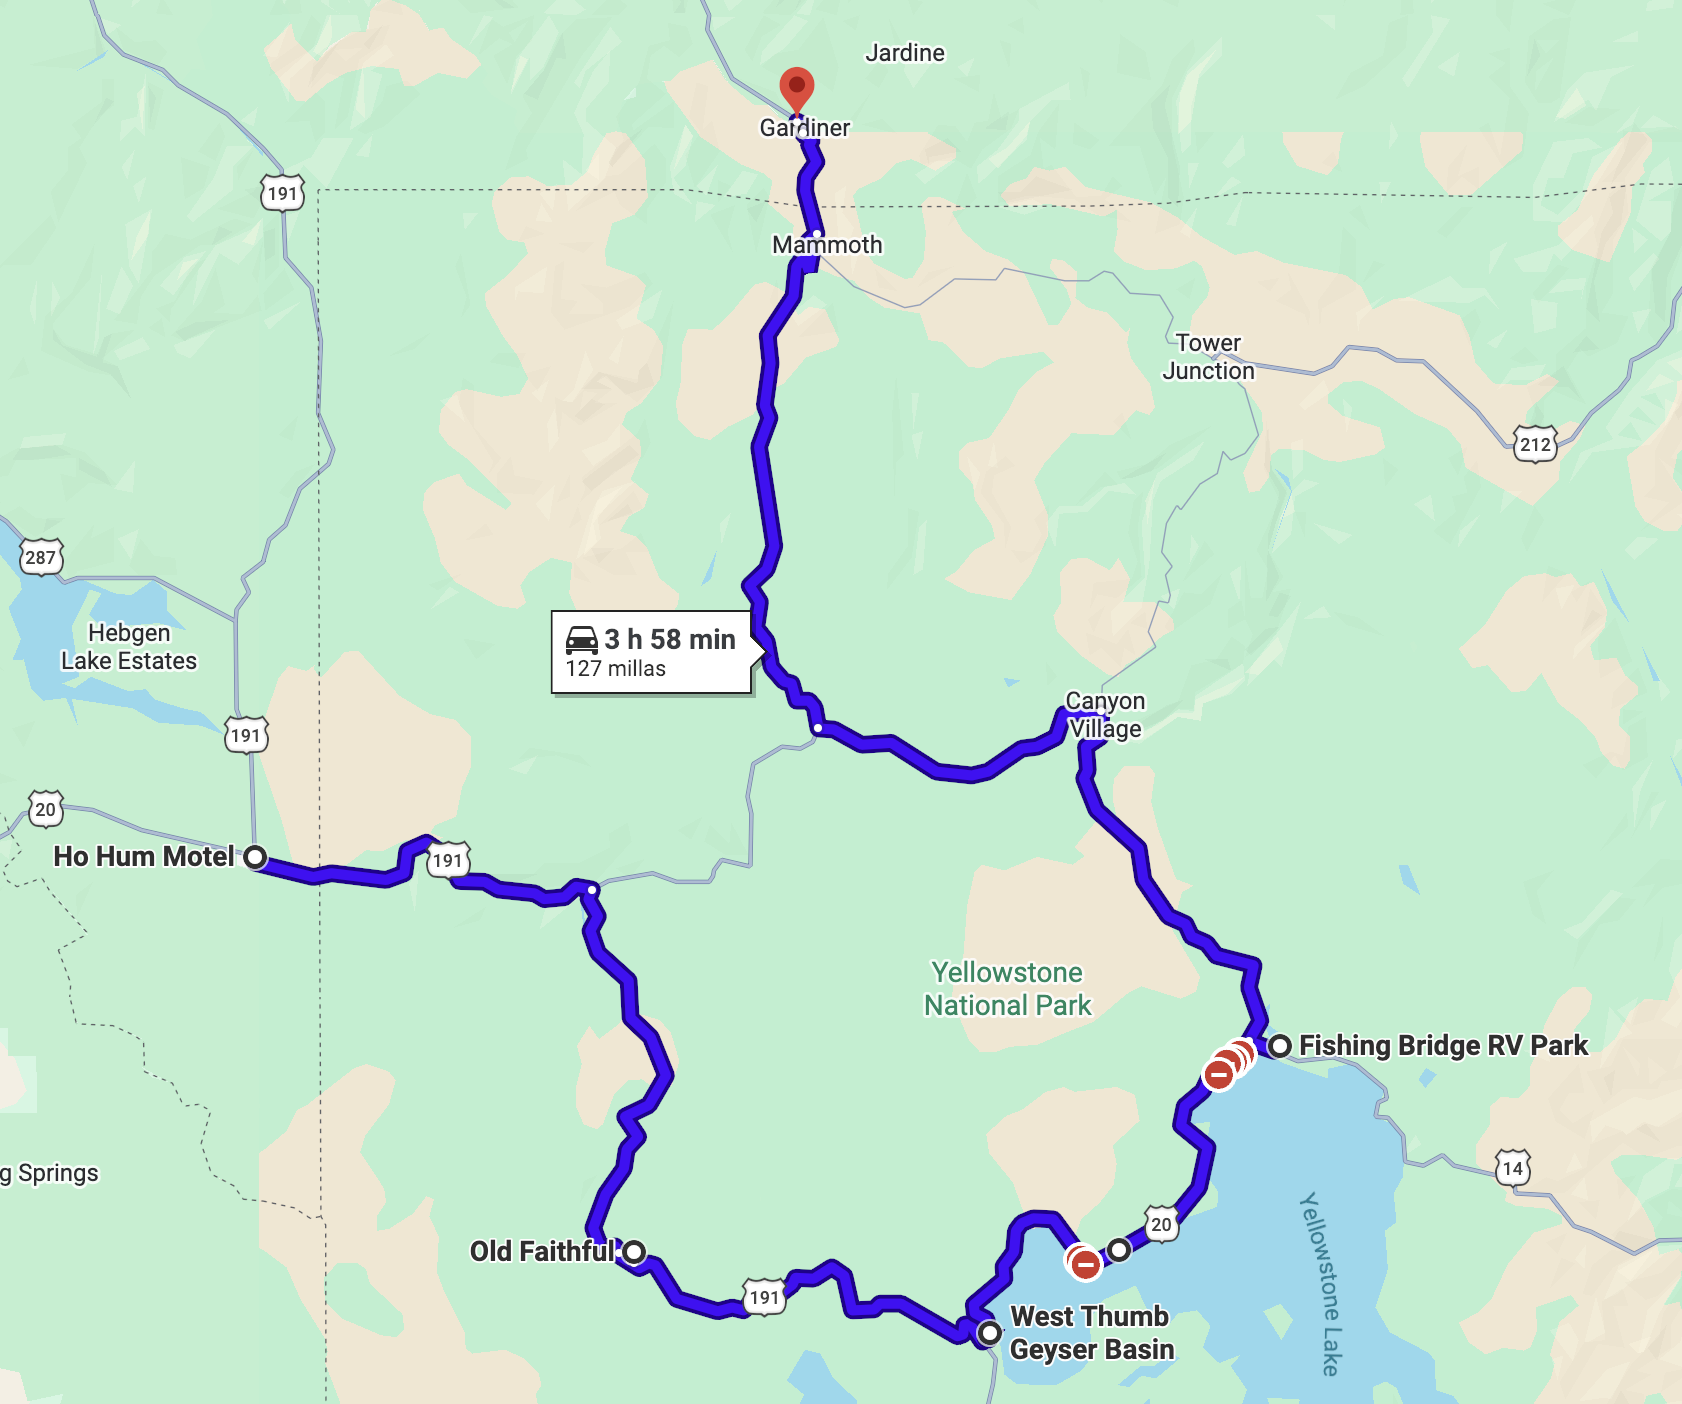
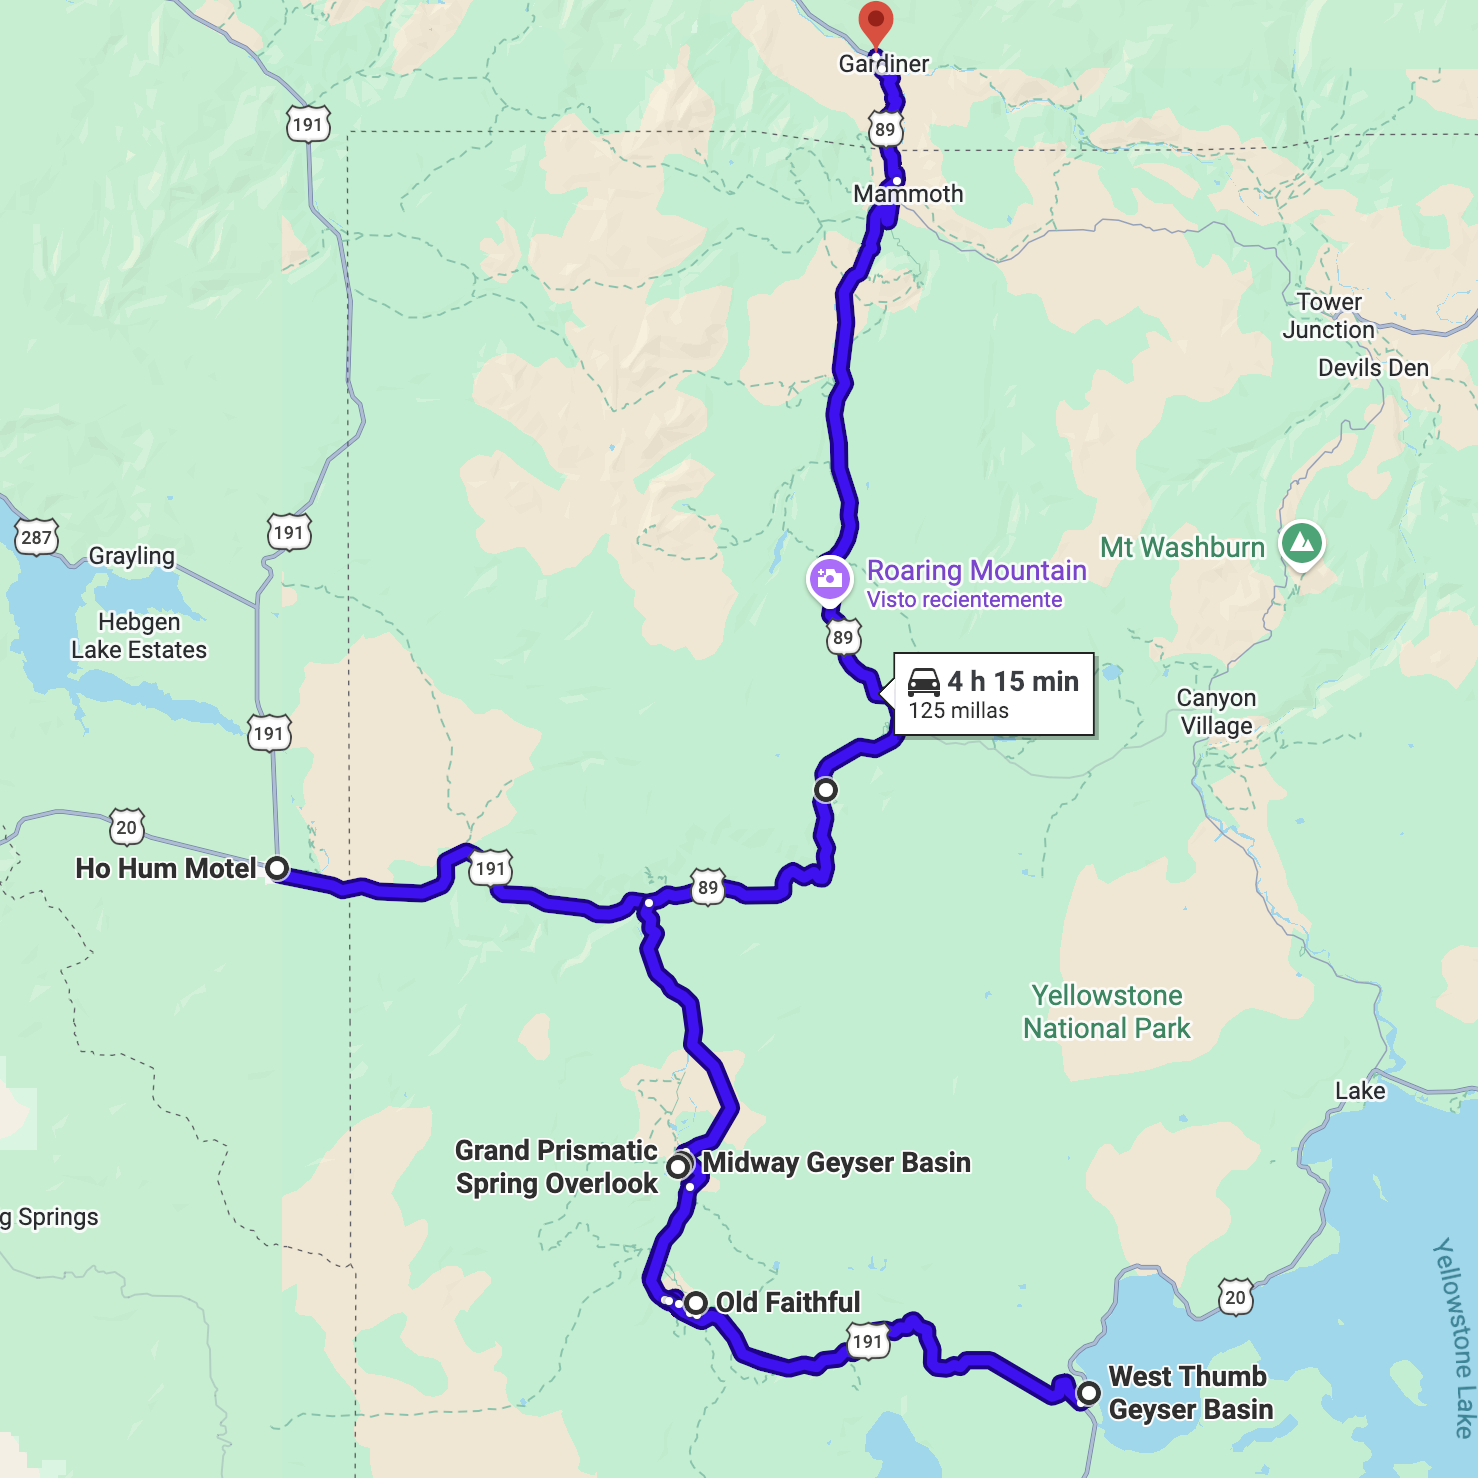
feat: cambiar ruta Día 13 a out-and-back géiseres + retorno Norris/Mammoth
- Nueva ruta: Ho Hum → Grand Prismatic Overlook → Midway → Old Faithful
  → West Thumb → Norris → Mammoth → Gardiner (125 mi, 4h15min)
- Reemplazar yw-dia12-map.png con nuevo mapa de la ruta
- HTML base: Grand Prismatic expandido con overlook + boardwalk como
  dos experiencias distintas; orden geográfico corregido (Prismatic
  antes de Old Faithful); Hayden y Fishing Bridge eliminados del Día 13;
  Norris como paso en ruta, no parada principal
- Modal Yellowstone: título y texto actualizados con nueva ruta

diff --git a/index.html b/index.html
@@ -640,18 +640,23 @@ function checkPw(){
           <div class="day-title">Lower Loop · West Yellowstone → Gardiner</div>
           <ul class="day-items">
             <li>🌅 <strong>Amanecer (~6 AM): entrar por West Entrance</strong> — recorrer despacio el tramo del <strong>río Madison</strong> hasta Madison Junction. Bisontes, nutrias de río, patos arlequín en las rocas. Posibles linces en las márgenes. Ir muy despacio.</li>
-            <li>🌡 <strong>Mañana: cuencas de géiseres</strong> — <strong>Old Faithful</strong> (ver 2 erupciones desde distintos POVs, café/desayuno en el <strong>Old Faithful Inn</strong> entre medias, caminata por Upper Geyser Basin: Castle, Riverside, Beehive), <strong>Grand Prismatic Spring</strong> (Fairy Falls Trail, overlook aéreo, ~3.2 km RT), <strong>Fountain Paint Pots</strong></li>
-            <li>🏔 <strong>West Thumb Geyser Basin</strong> — géiseres en el borde mismo del lago Yellowstone. Muy fotogénico.</li>
-            <li>🦆 <em>Prescindible:</em> <strong>Fishing Bridge → LeHardy Rapids</strong> — los patos arlequín ya migraron para agosto. Frenar solo si hay movimiento de fauna visible.</li>
-            <li>🦬 <strong>Hayden Valley</strong> — manadas enormes de bisontes. Posibles grizzly buscando raíces.</li>
+            <li>🌡 <strong>Fountain Paint Pots</strong> (Lower Geyser Basin) — de paso entre Madison y Midway. Barro borboteando en colores. 20 min de boardwalk.</li>
+            <li>🌈 <strong>Grand Prismatic Spring — bloque completo, sin apuro:</strong>
+              <ul style="margin-top:6px;padding-left:18px;line-height:1.8">
+                <li><strong>Fairy Falls Trailhead → overlook aéreo</strong> (~3.2 km RT, 40 min) — la vista desde arriba es la imagen icónica: los anillos de color completos, el vapor, el contexto del paisaje. Hacerlo primero, antes de que llegue la multitud.</li>
+                <li><strong>Midway Geyser Basin boardwalk</strong> — nivel del suelo, a metros del borde. Completamente distinto al overlook: el color, el olor, el vapor en la cara. Excelsior Geyser al lado. La experiencia física que el overlook no da.</li>
+              </ul>
+            </li>
+            <li>🔥 <strong>Old Faithful + Upper Geyser Basin — bloque largo:</strong> ver al menos 2 erupciones desde distintos POVs (frente, lateral, desde el boardwalk posterior). <strong>Café/desayuno en Old Faithful Inn</strong> entre erupciones. Caminata por el Upper Geyser Basin: Castle Geyser, Riverside, Beehive — los tres activos y fotogénicos.</li>
+            <li>🏔 <strong>West Thumb Geyser Basin</strong> — géiseres burbujeando en el borde mismo del lago Yellowstone. Punto de retorno natural hacia el norte. Muy fotogénico con el lago de fondo.</li>
 
-            <li>🌋 <em>Solo si da el tiempo:</em> <strong>Norris Geyser Basin</strong> — el campo geotérmico más activo del parque. Steamboat Geyser. Se recupera fácil en el Día 14 (es el cierre del upper loop).</li>
+            <li>🌋 <strong>Norris Junction</strong> — en ruta de regreso al norte. Pasar de largo o parada breve (30 min) si hay energía. El bloque completo de Norris Geyser Basin queda para el Día 14 (cierre del upper loop).</li>
             <li>🏔 <strong>Mammoth Hot Springs</strong> — terrazas de travertino. Albright Visitor Center (búhos cornudos anidando cerca). Travertine Cliffs para buscar alces.</li>
             <li>🐑 <strong>Old Gardiner Road</strong> (últimos km antes de Gardiner) — ruta histórica, menos tráfico, grupos de machos bighorn sheep que toleran la presencia humana.</li>
           </ul>
           <div class="wildlife-block">
             <div class="wildlife-title">⏱ La lógica del día</div>
-            <div class="wildlife-body">El amanecer se aprovecha en el <strong>río Madison</strong> — fauna activa, sin desvío, es la ruta de entrada. Los géiseres no tienen horario: los visitás cuando el sol ya está alto y los animales descansan. El día termina naturalmente en Gardiner pasando por Mammoth y la Old Gardiner Road.</div>
+            <div class="wildlife-body">El amanecer se aprovecha en el <strong>río Madison</strong>. Los géiseres forman el bloque central del día — Grand Prismatic desde arriba y desde abajo son dos experiencias distintas y vale hacer las dos. El día termina en Gardiner pasando por <strong>Mammoth</strong> y la <strong>Old Gardiner Road</strong>. Hayden Valley y Canyon se reservan para los Días 14 y 15 — este día es puro oeste y geotermia.</div>
           </div>
           <div class="alert-inline alert-amber"><span class="icon">🎒</span><span><strong>Logística checkout:</strong> cargá el auto con todo la noche del 12. El 13 salís directo al parque a las 6 AM — no volvés al motel. Checkout express de camino.</span></div>
           <div class="alert-inline alert-amber"><span class="icon">⛽</span><span><strong>Cargar nafta esta noche en West Yellowstone</strong> — las bombas son 24h con tarjeta, incluso si el local está cerrado. Salís mañana con el tanque lleno sin perder un minuto. Dentro del parque las estaciones tienen horario acotado (8–20h) y son caras — nunca depender de ellas.</span></div>

diff --git a/yellowstone_mapa.html b/yellowstone_mapa.html
@@ -718,8 +718,8 @@ document.addEventListener('keydown', e => { if (e.key === 'Escape') closeRutas()
       <div class="rutas-day">
         <div class="rutas-day-bar" style="background:#1a56db"></div>
         <div>
-          <div class="rutas-day-title" style="color:#93bbf7">Día 13 — West Yellowstone → Lower Loop → Gardiner</div>
-          <div class="rutas-day-text">Salida Ho Hum al amanecer. <strong>Madison Valley</strong> (bisontes, cisnes) → <strong>Old Faithful</strong> → <strong>West Thumb Geyser Basin</strong> → <strong>Fishing Bridge</strong> → subir a Gardiner por Mammoth. Primera noche en el Super 8.</div>
+          <div class="rutas-day-title" style="color:#93bbf7">Día 13 — West Yellowstone → Géiseres → Gardiner</div>
+          <div class="rutas-day-text">Salida Ho Hum al amanecer. <strong>Madison Valley</strong> → <strong>Grand Prismatic Overlook</strong> (Fairy Falls Trail, vista aérea) → <strong>Midway Geyser Basin</strong> → <strong>Old Faithful</strong> → <strong>West Thumb Geyser Basin</strong> → regreso norte vía <strong>Norris → Mammoth</strong> → Gardiner. (125 millas, 4h 15min)</div>
         </div>
       </div>
       <img src="yw-dia12-map.png" style="width:100%;border-radius:10px;display:block;margin-bottom:12px;">
